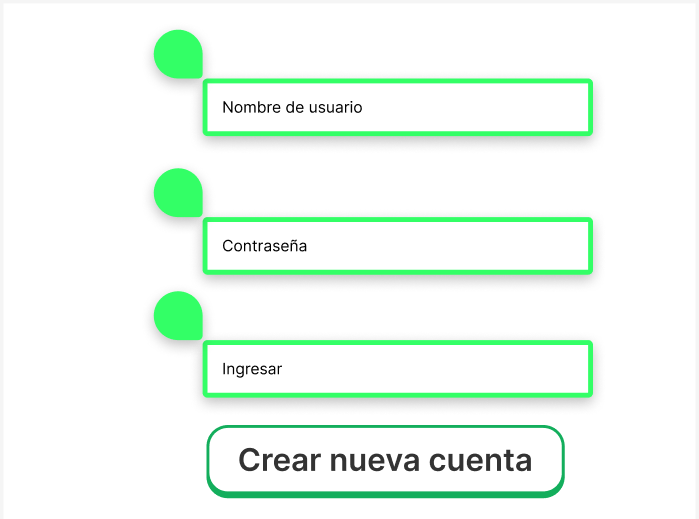
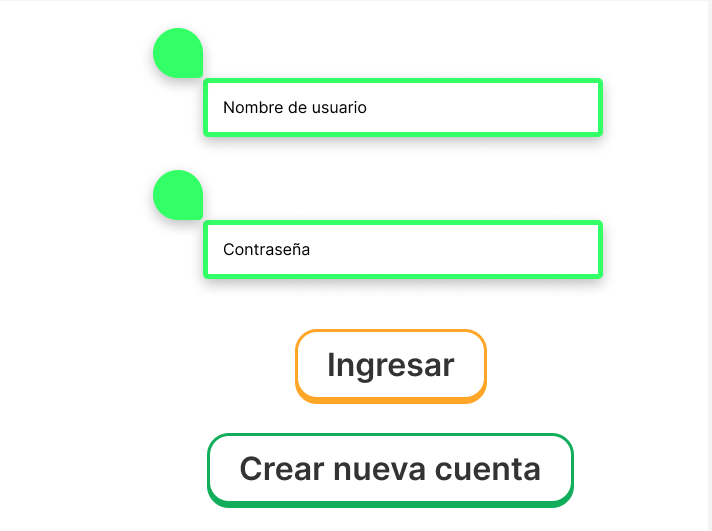
Detalles Readme file

diff --git a/Propuesta/README.md b/Propuesta/README.md
@@ -19,9 +19,16 @@
 
 ![App Screenshot](https://github.com/JosueC07183/ProyectoIE0217/blob/main/Propuesta/Images/Inicio.png?raw=true)
 
+Una vez que ingrese correctamente los datos ya sea el administrador o el usuario se procede a darle click en el botón ``Ingresar``, si los datos no están correctos entonces, el sistema no permitirá acceder a la siguiente página donde se mostrará la información correspondiente. 
+
+### Creación de nuevo usuario
+- Si se trata de un nuevo cliente, entonces se solicitan los siguientes datos:
+![App Screenshot](https://github.com/JosueC07183/ProyectoIE0217/blob/main/Propuesta/Images/registro.png?raw=true)
+Los espacios para rellenar la información tendrán una expresión regular (cuando lo amerite) para procurar que el cliente digite la información pertinente. Cuando da click el botón de ``Registrarse`` la idea es que regrese a la página inicial donde ahora si pueda digitar sus datos recién hechos y puede acceder al sistema de información de los apartamentos.
+>Nota: La información de los clientes se manejará de manera local en un archivo .txt
 
 
-
+>Nota: Toda la información de los usuarios se maneja de manera local en un archivo .txt
 
 
 
